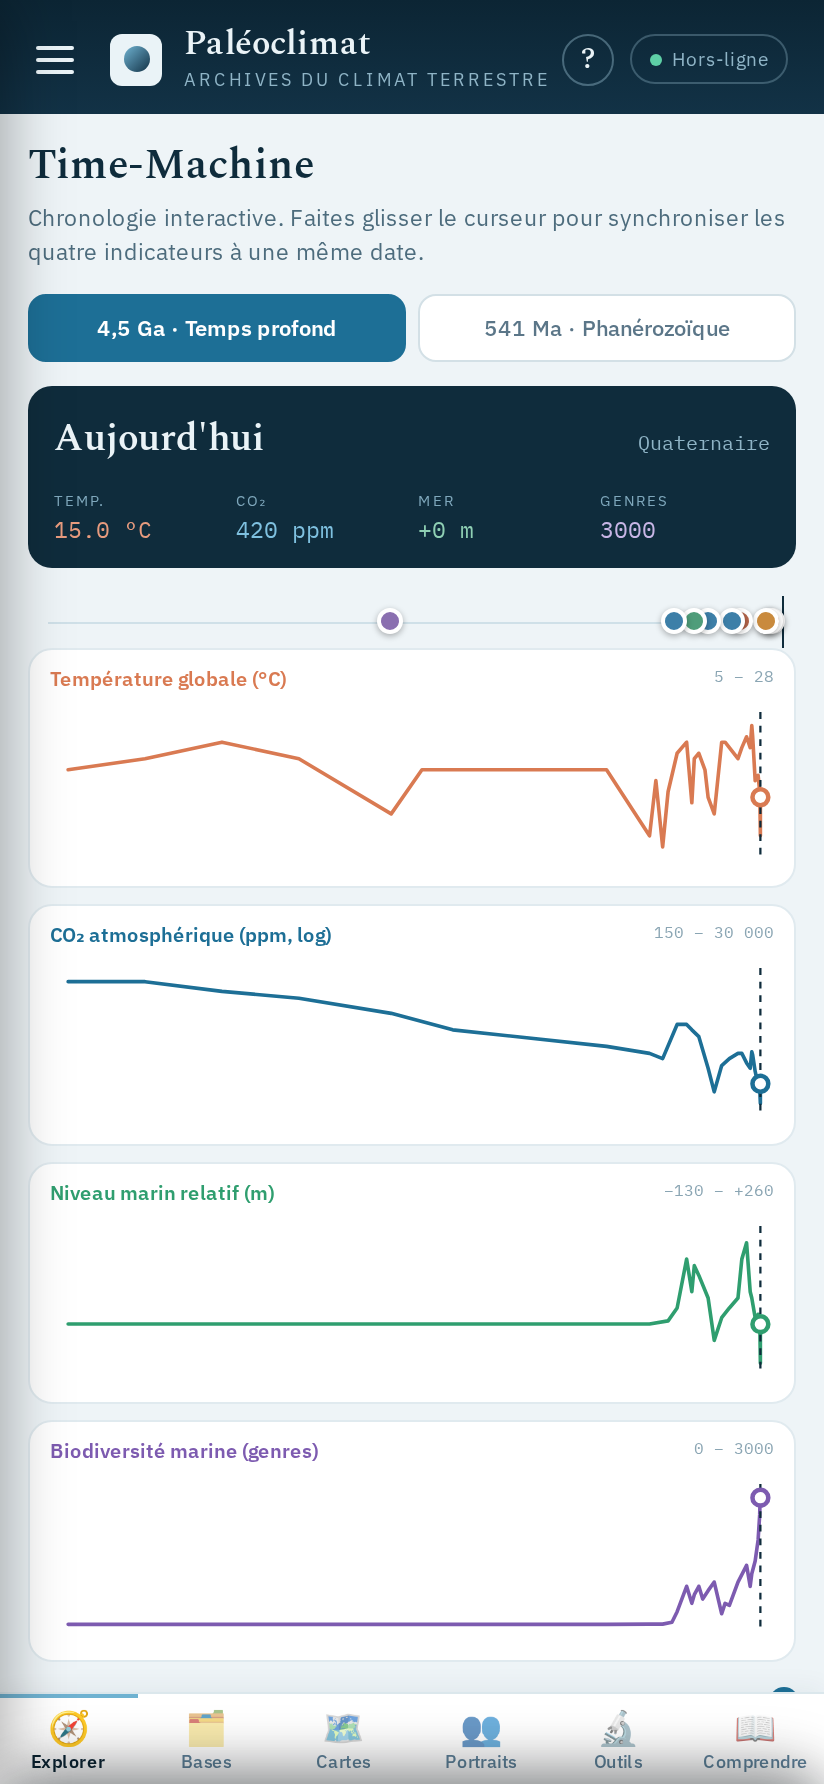
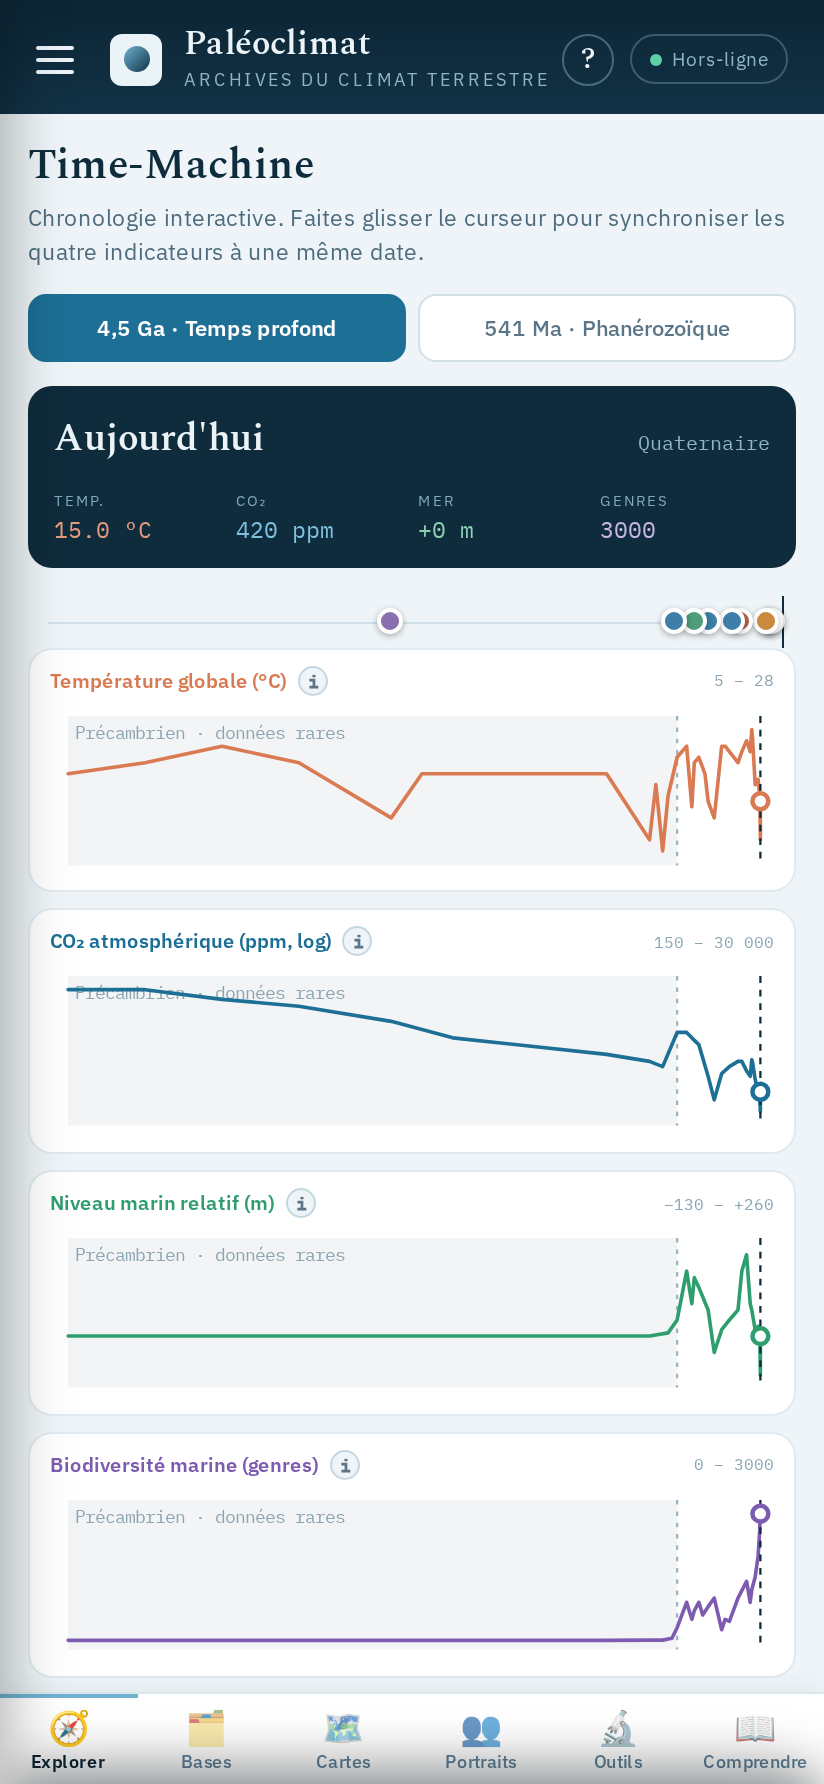
feat(time-machine): popover 'temps profond' sur chaque graphe
En mode 4,5 Ga, le Précambrien (avant 541 Ma) est quasi plat faute de
reconstructions. Chaque graphe signale désormais :
- une bande ombrée « Précambrien · données rares » + séparateur à 541 Ma ;
- un badge ⓘ ouvrant un popover expliquant l'absence d'événement
  remarquable / la rareté des données, avec un texte propre à chaque
  indicateur (température, CO₂, niveau marin, biodiversité).

Le popover se ferme au changement de plage. Captures README régénérées.

Claude-Session: https://claude.ai/code/session_01XXarP18UovGC6yry8CpQnA

diff --git a/app/src/render.jsx b/app/src/render.jsx
@@ -253,52 +253,112 @@ export function renderApp(v, self) {
           </React.Fragment>)) }
         </div>
 
-        <div style={css(`background:#fff;border:1px solid #e0eaef;border-radius:12px;padding:8px 10px 4px;margin-bottom:8px`)}>
-          <div style={css(`display:flex;justify-content:space-between;margin-bottom:1px`)}>
-            <div style={css(`font-size:10px;font-weight:600;color:#d97a52`)}>Température globale (°C)</div>
+        <div style={css(`position:relative;background:#fff;border:1px solid #e0eaef;border-radius:12px;padding:8px 10px 4px;margin-bottom:8px`)}>
+          <div style={css(`display:flex;justify-content:space-between;align-items:center;margin-bottom:1px`)}>
+            <div style={css(`display:flex;align-items:center;gap:6px`)}>
+              <div style={css(`font-size:10px;font-weight:600;color:#d97a52`)}>Température globale (°C)</div>
+              { v.tmDeep ? (<div onClick={() => v.tmInfoToggle('temp')} title="Pourquoi si plat ?" style={css(`width:15px;height:15px;border-radius:50%;background:#eef4f7;border:1px solid #c4d7e0;display:flex;align-items:center;justify-content:center;font-family:'IBM Plex Mono',monospace;font-size:9px;font-weight:700;color:#5b7688;cursor:pointer`)}>i</div>) : null }
+            </div>
             <div style={css(`font-family:'IBM Plex Mono',monospace;font-size:8px;color:#8aa5b3`)}>5 – 28</div>
           </div>
           <svg viewBox="0 0 320 82" style={css(`width:100%;display:block`)}>
+            { v.tmDeep ? (<>
+              <rect x="8" y="8" width={v.tmPreW} height="66" fill="#0f2c3c" opacity="0.05"></rect>
+              <line x1={v.tmPreX} y1="8" x2={v.tmPreX} y2="74" stroke="#9bb4c2" strokeWidth="1" strokeDasharray="2 3"></line>
+              <text x="11" y="18" fontFamily="'IBM Plex Mono',monospace" fontSize="8" fill="#8aa5b3">Précambrien · données rares</text>
+            </>) : null }
             <path d={v.tmTempPath} fill="none" stroke="#d97a52" strokeWidth="1.6" strokeLinejoin="round" strokeLinecap="round"></path>
             <line x1={v.tmScrubX} y1="8" x2={v.tmScrubX} y2="74" stroke="#0f2c3c" strokeWidth="1" strokeDasharray="3 3"></line>
             <circle cx={v.tmScrubX} cy={v.tmTempMarkY} r="3.5" fill="#fff" stroke="#d97a52" strokeWidth="2"></circle>
           </svg>
+          { v.tmInfoOpen === 'temp' ? (<>
+            <div onClick={v.tmCloseInfo} style={css(`position:absolute;z-index:6;top:26px;left:10px;right:10px;background:#0f2c3c;color:#eaf3f7;border-radius:9px;padding:10px 12px;box-shadow:0 6px 20px rgba(8,24,34,0.35);cursor:pointer`)}>
+              <div style={css(`font-family:'IBM Plex Mono',monospace;font-size:8px;letter-spacing:.6px;text-transform:uppercase;color:#8fb4c6;margin-bottom:4px`)}>Temps profond · avant 541 Ma</div>
+              <div style={css(`font-size:11px;line-height:1.5`)}>{v.tmInfoText.temp}</div>
+              <div style={css(`font-size:9px;color:#8fb4c6;margin-top:6px`)}>Touchez pour fermer</div>
+            </div>
+          </>) : null }
         </div>
 
-        <div style={css(`background:#fff;border:1px solid #e0eaef;border-radius:12px;padding:8px 10px 4px;margin-bottom:8px`)}>
-          <div style={css(`display:flex;justify-content:space-between;margin-bottom:1px`)}>
-            <div style={css(`font-size:10px;font-weight:600;color:#1d6f96`)}>CO₂ atmosphérique (ppm, log)</div>
+        <div style={css(`position:relative;background:#fff;border:1px solid #e0eaef;border-radius:12px;padding:8px 10px 4px;margin-bottom:8px`)}>
+          <div style={css(`display:flex;justify-content:space-between;align-items:center;margin-bottom:1px`)}>
+            <div style={css(`display:flex;align-items:center;gap:6px`)}>
+              <div style={css(`font-size:10px;font-weight:600;color:#1d6f96`)}>CO₂ atmosphérique (ppm, log)</div>
+              { v.tmDeep ? (<div onClick={() => v.tmInfoToggle('co2')} title="Pourquoi si plat ?" style={css(`width:15px;height:15px;border-radius:50%;background:#eef4f7;border:1px solid #c4d7e0;display:flex;align-items:center;justify-content:center;font-family:'IBM Plex Mono',monospace;font-size:9px;font-weight:700;color:#5b7688;cursor:pointer`)}>i</div>) : null }
+            </div>
             <div style={css(`font-family:'IBM Plex Mono',monospace;font-size:8px;color:#8aa5b3`)}>150 – 30 000</div>
           </div>
           <svg viewBox="0 0 320 82" style={css(`width:100%;display:block`)}>
+            { v.tmDeep ? (<>
+              <rect x="8" y="8" width={v.tmPreW} height="66" fill="#0f2c3c" opacity="0.05"></rect>
+              <line x1={v.tmPreX} y1="8" x2={v.tmPreX} y2="74" stroke="#9bb4c2" strokeWidth="1" strokeDasharray="2 3"></line>
+              <text x="11" y="18" fontFamily="'IBM Plex Mono',monospace" fontSize="8" fill="#8aa5b3">Précambrien · données rares</text>
+            </>) : null }
             <path d={v.tmCo2Path} fill="none" stroke="#1d6f96" strokeWidth="1.6" strokeLinejoin="round" strokeLinecap="round"></path>
             <line x1={v.tmScrubX} y1="8" x2={v.tmScrubX} y2="74" stroke="#0f2c3c" strokeWidth="1" strokeDasharray="3 3"></line>
             <circle cx={v.tmScrubX} cy={v.tmCo2MarkY} r="3.5" fill="#fff" stroke="#1d6f96" strokeWidth="2"></circle>
           </svg>
+          { v.tmInfoOpen === 'co2' ? (<>
+            <div onClick={v.tmCloseInfo} style={css(`position:absolute;z-index:6;top:26px;left:10px;right:10px;background:#0f2c3c;color:#eaf3f7;border-radius:9px;padding:10px 12px;box-shadow:0 6px 20px rgba(8,24,34,0.35);cursor:pointer`)}>
+              <div style={css(`font-family:'IBM Plex Mono',monospace;font-size:8px;letter-spacing:.6px;text-transform:uppercase;color:#8fb4c6;margin-bottom:4px`)}>Temps profond · avant 541 Ma</div>
+              <div style={css(`font-size:11px;line-height:1.5`)}>{v.tmInfoText.co2}</div>
+              <div style={css(`font-size:9px;color:#8fb4c6;margin-top:6px`)}>Touchez pour fermer</div>
+            </div>
+          </>) : null }
         </div>
 
-        <div style={css(`background:#fff;border:1px solid #e0eaef;border-radius:12px;padding:8px 10px 4px;margin-bottom:8px`)}>
-          <div style={css(`display:flex;justify-content:space-between;margin-bottom:1px`)}>
-            <div style={css(`font-size:10px;font-weight:600;color:#2f9e6f`)}>Niveau marin relatif (m)</div>
+        <div style={css(`position:relative;background:#fff;border:1px solid #e0eaef;border-radius:12px;padding:8px 10px 4px;margin-bottom:8px`)}>
+          <div style={css(`display:flex;justify-content:space-between;align-items:center;margin-bottom:1px`)}>
+            <div style={css(`display:flex;align-items:center;gap:6px`)}>
+              <div style={css(`font-size:10px;font-weight:600;color:#2f9e6f`)}>Niveau marin relatif (m)</div>
+              { v.tmDeep ? (<div onClick={() => v.tmInfoToggle('sea')} title="Pourquoi si plat ?" style={css(`width:15px;height:15px;border-radius:50%;background:#eef4f7;border:1px solid #c4d7e0;display:flex;align-items:center;justify-content:center;font-family:'IBM Plex Mono',monospace;font-size:9px;font-weight:700;color:#5b7688;cursor:pointer`)}>i</div>) : null }
+            </div>
             <div style={css(`font-family:'IBM Plex Mono',monospace;font-size:8px;color:#8aa5b3`)}>−130 – +260</div>
           </div>
           <svg viewBox="0 0 320 82" style={css(`width:100%;display:block`)}>
+            { v.tmDeep ? (<>
+              <rect x="8" y="8" width={v.tmPreW} height="66" fill="#0f2c3c" opacity="0.05"></rect>
+              <line x1={v.tmPreX} y1="8" x2={v.tmPreX} y2="74" stroke="#9bb4c2" strokeWidth="1" strokeDasharray="2 3"></line>
+              <text x="11" y="18" fontFamily="'IBM Plex Mono',monospace" fontSize="8" fill="#8aa5b3">Précambrien · données rares</text>
+            </>) : null }
             <path d={v.tmSeaPath} fill="none" stroke="#2f9e6f" strokeWidth="1.6" strokeLinejoin="round" strokeLinecap="round"></path>
             <line x1={v.tmScrubX} y1="8" x2={v.tmScrubX} y2="74" stroke="#0f2c3c" strokeWidth="1" strokeDasharray="3 3"></line>
             <circle cx={v.tmScrubX} cy={v.tmSeaMarkY} r="3.5" fill="#fff" stroke="#2f9e6f" strokeWidth="2"></circle>
           </svg>
+          { v.tmInfoOpen === 'sea' ? (<>
+            <div onClick={v.tmCloseInfo} style={css(`position:absolute;z-index:6;top:26px;left:10px;right:10px;background:#0f2c3c;color:#eaf3f7;border-radius:9px;padding:10px 12px;box-shadow:0 6px 20px rgba(8,24,34,0.35);cursor:pointer`)}>
+              <div style={css(`font-family:'IBM Plex Mono',monospace;font-size:8px;letter-spacing:.6px;text-transform:uppercase;color:#8fb4c6;margin-bottom:4px`)}>Temps profond · avant 541 Ma</div>
+              <div style={css(`font-size:11px;line-height:1.5`)}>{v.tmInfoText.sea}</div>
+              <div style={css(`font-size:9px;color:#8fb4c6;margin-top:6px`)}>Touchez pour fermer</div>
+            </div>
+          </>) : null }
         </div>
 
-        <div style={css(`background:#fff;border:1px solid #e0eaef;border-radius:12px;padding:8px 10px 4px;margin-bottom:8px`)}>
-          <div style={css(`display:flex;justify-content:space-between;margin-bottom:1px`)}>
-            <div style={css(`font-size:10px;font-weight:600;color:#7d5bb0`)}>Biodiversité marine (genres)</div>
+        <div style={css(`position:relative;background:#fff;border:1px solid #e0eaef;border-radius:12px;padding:8px 10px 4px;margin-bottom:8px`)}>
+          <div style={css(`display:flex;justify-content:space-between;align-items:center;margin-bottom:1px`)}>
+            <div style={css(`display:flex;align-items:center;gap:6px`)}>
+              <div style={css(`font-size:10px;font-weight:600;color:#7d5bb0`)}>Biodiversité marine (genres)</div>
+              { v.tmDeep ? (<div onClick={() => v.tmInfoToggle('bio')} title="Pourquoi si plat ?" style={css(`width:15px;height:15px;border-radius:50%;background:#eef4f7;border:1px solid #c4d7e0;display:flex;align-items:center;justify-content:center;font-family:'IBM Plex Mono',monospace;font-size:9px;font-weight:700;color:#5b7688;cursor:pointer`)}>i</div>) : null }
+            </div>
             <div style={css(`font-family:'IBM Plex Mono',monospace;font-size:8px;color:#8aa5b3`)}>0 – 3000</div>
           </div>
           <svg viewBox="0 0 320 82" style={css(`width:100%;display:block`)}>
+            { v.tmDeep ? (<>
+              <rect x="8" y="8" width={v.tmPreW} height="66" fill="#0f2c3c" opacity="0.05"></rect>
+              <line x1={v.tmPreX} y1="8" x2={v.tmPreX} y2="74" stroke="#9bb4c2" strokeWidth="1" strokeDasharray="2 3"></line>
+              <text x="11" y="18" fontFamily="'IBM Plex Mono',monospace" fontSize="8" fill="#8aa5b3">Précambrien · données rares</text>
+            </>) : null }
             <path d={v.tmBioPath} fill="none" stroke="#7d5bb0" strokeWidth="1.6" strokeLinejoin="round" strokeLinecap="round"></path>
             <line x1={v.tmScrubX} y1="8" x2={v.tmScrubX} y2="74" stroke="#0f2c3c" strokeWidth="1" strokeDasharray="3 3"></line>
             <circle cx={v.tmScrubX} cy={v.tmBioMarkY} r="3.5" fill="#fff" stroke="#7d5bb0" strokeWidth="2"></circle>
           </svg>
+          { v.tmInfoOpen === 'bio' ? (<>
+            <div onClick={v.tmCloseInfo} style={css(`position:absolute;z-index:6;top:26px;left:10px;right:10px;background:#0f2c3c;color:#eaf3f7;border-radius:9px;padding:10px 12px;box-shadow:0 6px 20px rgba(8,24,34,0.35);cursor:pointer`)}>
+              <div style={css(`font-family:'IBM Plex Mono',monospace;font-size:8px;letter-spacing:.6px;text-transform:uppercase;color:#8fb4c6;margin-bottom:4px`)}>Temps profond · avant 541 Ma</div>
+              <div style={css(`font-size:11px;line-height:1.5`)}>{v.tmInfoText.bio}</div>
+              <div style={css(`font-size:9px;color:#8fb4c6;margin-top:6px`)}>Touchez pour fermer</div>
+            </div>
+          </>) : null }
         </div>
 
         <input type="range" min="0" max="1000" step="1" value={v.tmScrub} onChange={v.onTmScrub} onInput={v.onTmScrub} style={css(`width:100%;accent-color:#1d6f96;margin-top:4px`)} />

diff --git a/app/src/App.jsx b/app/src/App.jsx
@@ -9,7 +9,7 @@ import { renderApp } from "./render.jsx"
 // ============================================================================
 
 class PaleoApp extends React.Component {
-  state = { screen: 'home', menuOpen: false, eraId: 0, age: 0, tmRange: 'full', tmScrub: 1000, evt: null, mapPeriod: 'pangea', reveal: 50, pinX: 52, pinY: 46, pinLabel: 'Votre région', dragging: false, proxy: null, grow: 100, playing: false, extreme: null, dsOn: { epica: true, sea: true, lr04: true }, shiftDs: 'sea', shiftKa: 0, dCalcite: '-1.5', dWater: '0.0', eqId: 'shack', ecc: 1.67, obl: 23.44, prec: 283, season: 90, glossQ: '', glossCat: 'Tous', site: null, siteCat: 'Tous', addMode: false, userSites: [], helpOpen: false, globePeriod: 4, globeRotate: true, geoQ: '', geoSel: null, histYear: 2008, storyId: 0, extinctId: null, atlasId: null, sciId: null, catMenu: null };
+  state = { screen: 'home', menuOpen: false, eraId: 0, age: 0, tmRange: 'full', tmScrub: 1000, evt: null, mapPeriod: 'pangea', reveal: 50, pinX: 52, pinY: 46, pinLabel: 'Votre région', dragging: false, proxy: null, grow: 100, playing: false, extreme: null, dsOn: { epica: true, sea: true, lr04: true }, shiftDs: 'sea', shiftKa: 0, dCalcite: '-1.5', dWater: '0.0', eqId: 'shack', ecc: 1.67, obl: 23.44, prec: 283, season: 90, glossQ: '', glossCat: 'Tous', site: null, siteCat: 'Tous', addMode: false, userSites: [], helpOpen: false, globePeriod: 4, globeRotate: true, geoQ: '', geoSel: null, histYear: 2008, storyId: 0, extinctId: null, atlasId: null, sciId: null, catMenu: null, tmInfo: null };
   globeRef = React.createRef();
   mapRef = React.createRef();
   cmpRef = React.createRef();
@@ -2116,8 +2116,8 @@ class PaleoApp extends React.Component {
       menuPanelStyle: { position: 'absolute', top: 0, left: 0, bottom: 0, width: '80%', maxWidth: 300, background: '#0c2534', zIndex: 41, transform: menuOpen ? 'translateX(0)' : 'translateX(-102%)', transition: 'transform .28s cubic-bezier(.4,0,.2,1)', boxShadow: '8px 0 30px rgba(0,0,0,0.35)', display: 'flex', flexDirection: 'column' },
       // time machine
       tmRange, tmScrub,
-      setFull: () => this.setState({ tmRange: 'full' }),
-      setPhan: () => this.setState({ tmRange: 'phan' }),
+      setFull: () => this.setState({ tmRange: 'full', tmInfo: null }),
+      setPhan: () => this.setState({ tmRange: 'phan', tmInfo: null }),
       onTmScrub: (e) => this.setState({ tmScrub: +e.target.value }),
       rangeFullStyle: this.rangeBtn(tmRange !== 'phan'),
       rangePhanStyle: this.rangeBtn(tmRange === 'phan'),
@@ -2130,6 +2130,19 @@ class PaleoApp extends React.Component {
       tmSeaPath: this.cpath(this.cSea, maxAge, v => this.mSea(v)),
       tmBioPath: this.cpath(this.cBio, maxAge, v => this.mBio(v)),
       tmTempMarkY: this.mTemp(tT), tmCo2MarkY: this.mCo2(tC), tmSeaMarkY: this.mSea(tS), tmBioMarkY: this.mBio(tB),
+      // Temps profond : bande Précambrien + popover « peu de données » sur chaque graphe
+      tmDeep: tmRange !== 'phan',
+      tmPreX: this.tX(541, maxAge),            // frontière 541 Ma (Précambrien | Phanérozoïque)
+      tmPreW: this.tX(541, maxAge) - this.tX(maxAge, maxAge),
+      tmInfoOpen: this.state.tmInfo,
+      tmInfoToggle: (id) => this.setState(s => ({ tmInfo: s.tmInfo === id ? null : id })),
+      tmCloseInfo: () => this.setState({ tmInfo: null }),
+      tmInfoText: {
+        temp: "Avant 541 Ma, la température globale n'est reconstruite que très grossièrement (δ¹⁸O rares, datations incertaines). Aucune variation fine documentée ici — hormis les glaciations globales du Cryogénien. La courbe est indicative.",
+        co2: "Le CO₂ précambrien provient de modèles (GEOCARB) et de paléosols : valeurs très élevées mais peu contraintes. Le seul grand repère est la Grande Oxydation (~2,4 Ga) ; le reste est lissé, faute de mesures.",
+        sea: "Le niveau marin relatif n'est pas reconstruit avant le Phanérozoïque. La courbe est mise à plat par convention : aucun événement remarquable n'est documenté sur cette période.",
+        bio: "La biodiversité animale ne décolle qu'à l'explosion cambrienne (541 Ma). Avant, la vie est essentiellement microbienne : quasi rien à dénombrer — la courbe reste au ras de zéro.",
+      },
       // event sheet
       evtOpen: !!evt, evtCat: evt && evt.cat, evtTitle: evt && evt.title, evtBody: evt && evt.body,
       evtColor: evt && evt.color, evtAgeTxt: evt && this.fmtAge(evt.age),